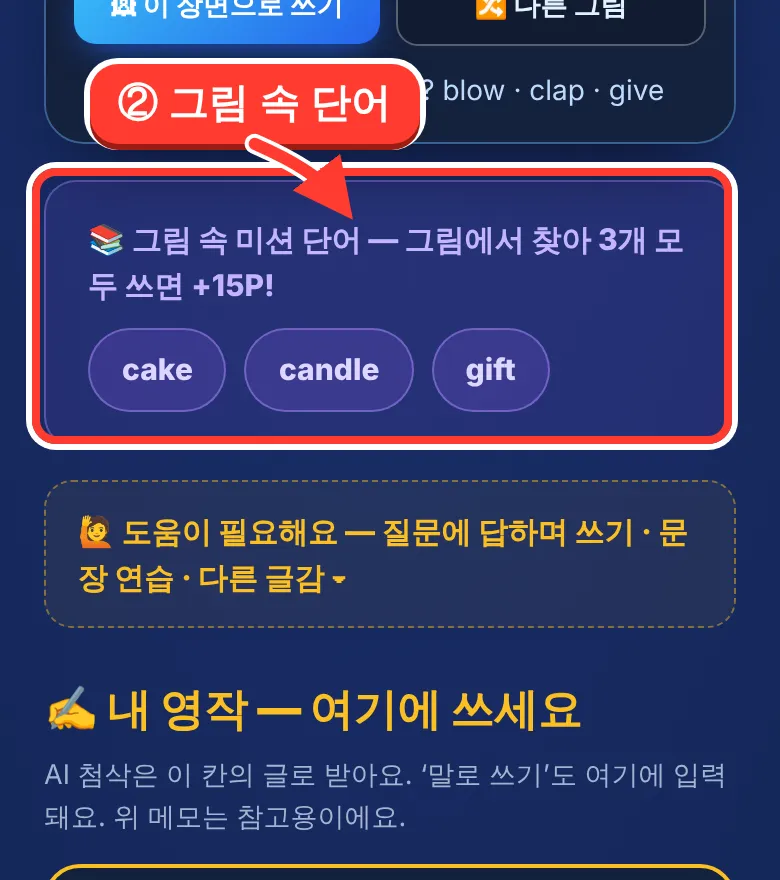
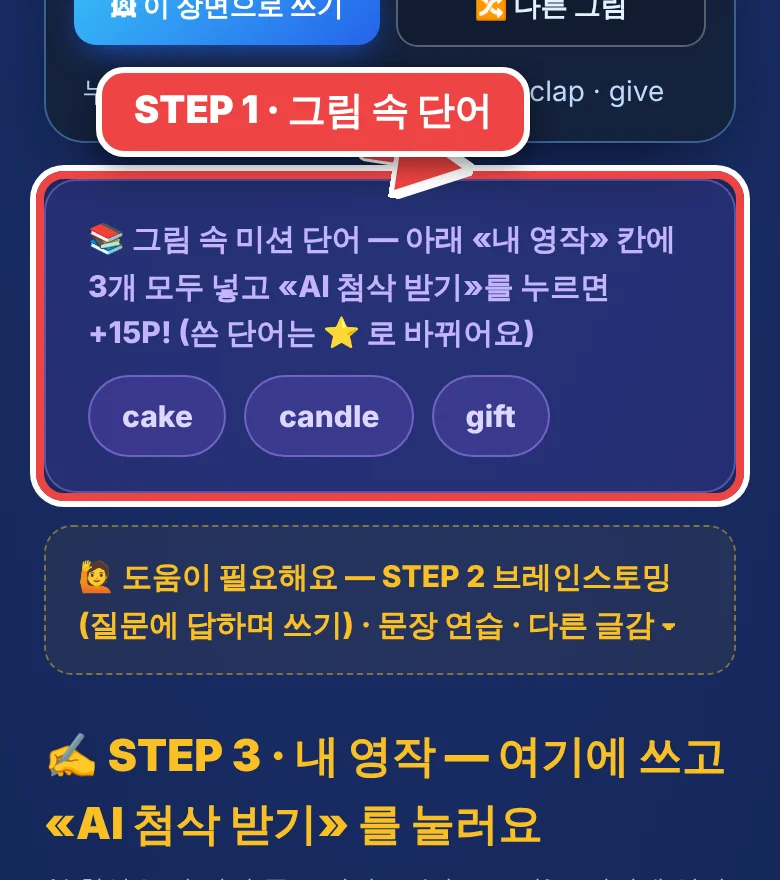
AI 영작 📖 사용 방법 사진을 STEP 1·2·3 표기로 다시 찍기 (#1594)
* AI 영작 마무리: 바뀜 알림 대비 4.5 맞춤 + 브라우저 검사 5종 현재 화면에 맞춤

- 화면(1줄): «앞서 고른 그림 대신» 알림(.go-cur-swap) 대비 4.48 → 5.01 (#fde68a → #fef3c7)
- 검사: 첫 방문 «📖 사용 방법» 창을 본 것으로 표시하고, 10-08 이후 접이칸(#awHelp·#sentenceCoach)을 학생처럼 열고 잼
  → guide 76 · onescreen 1045 · brainstorm 58 · pick-one 51 · sentence-coach 전부 통과
- 작업기록 «반복 검사» 절 채움

Claude-Session: https://claude.ai/code/session_01JBk1Am27dEkotBv9nAyuNf

* AI 영작 사용 방법 사진을 STEP 1·2·3 표기로 다시 찍기

- 📖 사용 방법 사진 5장에 남아 있던 옛 표기(① 오늘의 그림 · 내 영작 — 여기에 쓰세요)를
  실제 화면에서 다시 찍어 교체(scripts/shoot-aiwrite-guide.mjs 로 재현 가능)
- 설명서 순서를 화면 위→아래(STEP 1 그림·단어 → STEP 2 도움 → STEP 3 쓰기·첨삭)로,
  제목도 ①~⑤ 대신 STEP n (KO/EN)
- 사진 주소 ?v=1 → 2 (immutable 캐시)

Claude-Session: https://claude.ai/code/session_01JBk1Am27dEkotBv9nAyuNf

---------

diff --git a/cloudflare-deploy/public/ai-write.html b/cloudflare-deploy/public/ai-write.html
@@ -920,16 +920,17 @@
   <script>
   (function () {
     var STEPS = [
-      { img: 1, ko: ['① 그림을 봐요', '맨 위 «🎬 장면·글감 선택» 에서 그림이나 글감을 하나 골라요. 다른 그림이 보고 싶으면 «🔀 다른 그림» 을 눌러요.'],
-                en: ['① Look at the picture', 'Pick a picture or topic in «🎬 Pick a scene or topic» at the top. Tap «🔀 Another picture» to see a different one.'] },
-      { img: 2, ko: ['② 그림 속 단어를 찾아요', '보라색 단어 3개가 그림 안에 숨어 있어요. 3개를 모두 넣어서 쓰면 ⭐ +15P!'],
-                en: ['② Find the picture words', 'The 3 purple words are hiding in the picture. Use all 3 to get ⭐ +15P!'] },
-      { img: 3, ko: ['③ 영어로 써요', '그림 속 사람이 무엇을 하는지 영어로 써요. 짧아도 괜찮아요! «🎤 말로 쓰기» 버튼이 보이면 말로도 쓸 수 있어요.'],
-                en: ['③ Write in English', 'Write what the people in the picture are doing. Short is OK! If you see «🎤 Speak to write», you can write by speaking.'] },
-      { img: 4, ko: ['④ «AI 첨삭 받기» 를 눌러요', '망고 선생님이 틀린 곳을 고쳐 주고 점수를 알려 줘요. 고친 문장을 보고 따라 써 보면 포인트를 더 받아요.'],
-                en: ['④ Tap «Get AI Correction»', 'Coach Mango fixes mistakes and gives you a score. Copy the fixed sentence to earn more points.'] },
-      { img: 5, ko: ['⑤ 막히면 그림 밑 질문에 답해요', '무엇을 쓸지 모르겠으면 그림 바로 밑 «🧠 브레인스토밍» 6하원칙 질문에 짧게 답해 봐요. 답하면 글의 뼈대를 만들어 줘요.'],
-                en: ['⑤ Stuck? Answer the questions below the picture', 'Not sure what to write? Answer the 5W1H questions in «🧠 Brainstorming» right below the picture. You get an outline.'] }
+      // 화면의 STEP 1·2·3 과 같은 이름·같은 순서(위에서 아래). 사진은 scripts/shoot-aiwrite-guide.mjs 가 찍는다 — 순서를 바꾸면 그쪽 SHOTS 도.
+      { img: 1, ko: ['STEP 1 · 그림을 봐요', '맨 위 «🎬 장면·글감 선택» 에서 그림이나 글감을 하나 골라요. 다른 그림이 보고 싶으면 «🔀 다른 그림» 을 눌러요.'],
+                en: ['STEP 1 · Look at the picture', 'Pick a picture or topic in «🎬 Pick a scene or topic» at the top. Tap «🔀 Another picture» to see a different one.'] },
+      { img: 2, ko: ['STEP 1 · 그림 속 단어를 찾아요', '보라색 단어 3개가 그림 안에 숨어 있어요. 3개를 모두 넣어서 쓰면 ⭐ +15P!'],
+                en: ['STEP 1 · Find the picture words', 'The 3 purple words are hiding in the picture. Use all 3 to get ⭐ +15P!'] },
+      { img: 3, ko: ['STEP 2 · 막히면 그림 밑 질문에 답해요', '무엇을 쓸지 모르겠으면 그림 바로 밑 «🧠 브레인스토밍» 6하원칙 질문에 짧게 답해 봐요(안 해도 돼요). 답하면 글의 뼈대를 만들어 줘요.'],
+                en: ['STEP 2 · Stuck? Answer the questions below the picture', 'Not sure what to write? Answer the 5W1H questions in «🧠 Brainstorming» right below the picture (optional). You get an outline.'] },
+      { img: 4, ko: ['STEP 3 · 영어로 써요', '그림 속 사람이 무엇을 하는지 영어로 써요. 짧아도 괜찮아요! «🎤 말로 쓰기» 버튼이 보이면 말로도 쓸 수 있어요.'],
+                en: ['STEP 3 · Write in English', 'Write what the people in the picture are doing. Short is OK! If you see «🎤 Speak to write», you can write by speaking.'] },
+      { img: 5, ko: ['STEP 3 · «AI 첨삭 받기» 를 눌러요', '망고 선생님이 틀린 곳을 고쳐 주고 점수를 알려 줘요. 고친 문장을 보고 따라 써 보면 포인트를 더 받아요.'],
+                en: ['STEP 3 · Tap «Get AI Correction»', 'Coach Mango fixes mistakes and gives you a score. Copy the fixed sentence to earn more points.'] }
     ];
     var cur = 0;
     function en() { try { return window.getLang && window.getLang() === 'en'; } catch (e) { return false; } }
@@ -938,7 +939,7 @@
       var st = STEPS[cur], L = en() ? st.en : st.ko;
       document.getElementById('awHowStep').innerHTML =
         '<h3>' + esc(L[0]) + '</h3>' +
-        '<img src="/img/aiwrite-guide/step' + st.img + '.webp?v=1" width="780" height="880" alt="' + esc(L[0]) + '" loading="lazy">' +
+        '<img src="/img/aiwrite-guide/step' + st.img + '.webp?v=2" width="780" height="880" alt="' + esc(L[0]) + '" loading="lazy">' +
         '<p>' + esc(L[1]) + '</p>';
       document.getElementById('awHowDots').innerHTML = STEPS.map(function (_, i) { return '<span' + (i === cur ? ' class="on"' : '') + '></span>'; }).join('');
       document.getElementById('awHowPrev').disabled = cur === 0;

diff --git a/docs/작업기록/261016_AI영작_단계번호_STEP123_통일.md b/docs/작업기록/261016_AI영작_단계번호_STEP123_통일.md
@@ -37,5 +37,15 @@
 - «앞서 고른 그림 대신 …» 바뀜 알림(`.go-cur-swap`) 글자 대비가 **4.48**(기준 4.5 미달) — 측정 문제가 아니라 실제 값. `#fde68a` → `#fef3c7` 로 밝혀 **5.01**. 옛 색으로 되돌리면 같은 검사가 실제로 FAIL(3건) 나는 것을 확인했다.
 
 ### 아직 안 한 것
-- 📖 사용 방법 창의 ①~④ 사진은 그대로(위 «버린 방법» 셋째 줄 — 화면을 다시 찍을 때 STEP 표기에 맞출 것).
+- ~~📖 사용 방법 창의 ①~④ 사진은 그대로~~ → 2026-10-16 같은 날 다시 찍음(아래 «사용 방법 사진»).
 - 실제 운영 화면은 못 봄(프록시가 mangoi.ai 를 막음). 병합 뒤 사람이 한 번 봐야 끝.
+
+## 사용 방법 사진 (2026-10-16 추가)
+
+- **왜:** 📖 사용 방법 사진 5장에 옛 표기(«① 오늘의 그림»·«내 영작 — 여기에 쓰세요»·사진 속 ①~⑤)가 남아 화면과 어긋남.
+- **한 일:**
+  - `scripts/shoot-aiwrite-guide.mjs` 신설 — 로컬 서버 + 크로미움(390폭·DPR 2·생일 파티 그림·예문 고정)으로 실제 화면을 찍고 «STEP n · …» 이름표·빨간 테두리를 얹어 780×880 webp 로 저장. 첫 판은 손으로 찍어 방법이 사라졌던 것을 되풀이하지 않으려고 스크립트로 남김.
+  - 사진 순서를 화면 위→아래로: 그림(STEP 1) → 그림 속 단어(STEP 1) → 막히면 도움(STEP 2, 선택) → 영어로 쓰기(STEP 3) → AI 첨삭 받기(STEP 3). 설명서 STEPS 제목도 «①~⑤» 대신 «STEP n · …»(KO/EN), 사진 주소 `?v=1 → 2`(`/img` 는 `?v=` 가 붙으면 1년 immutable).
+- **버린 방법:** 첫 촬영은 fullPage 자르기에 sticky 바(«🎤 말로 쓰기» 줄)가 사진 한가운데 끼고, 화살표가 대상 안 30px 까지 들어가 글자를 덮음 → 찍는 동안 sticky·fixed 를 감추고 화살표는 대상 위 테두리에서 멈추게 고침.
+- **확인:** 브라우저로 첫 방문 모달을 KO·EN 각각 5장 넘겨 봄 — 제목이 «STEP [1-3] · », 사진 5장 모두 780×880 로드, 마지막 «시작하기» 뒤 `#text` 포커스(12/12). ai_write 하니스 3종 통과, `run.mjs --fast` PASS 532 / FAIL 0. 사진은 눈으로 5장 확인.
+- **아직:** 운영 화면은 못 봄 — 병합 뒤 사람이 📖 사용 방법을 한 번 넘겨 봐야 끝.
